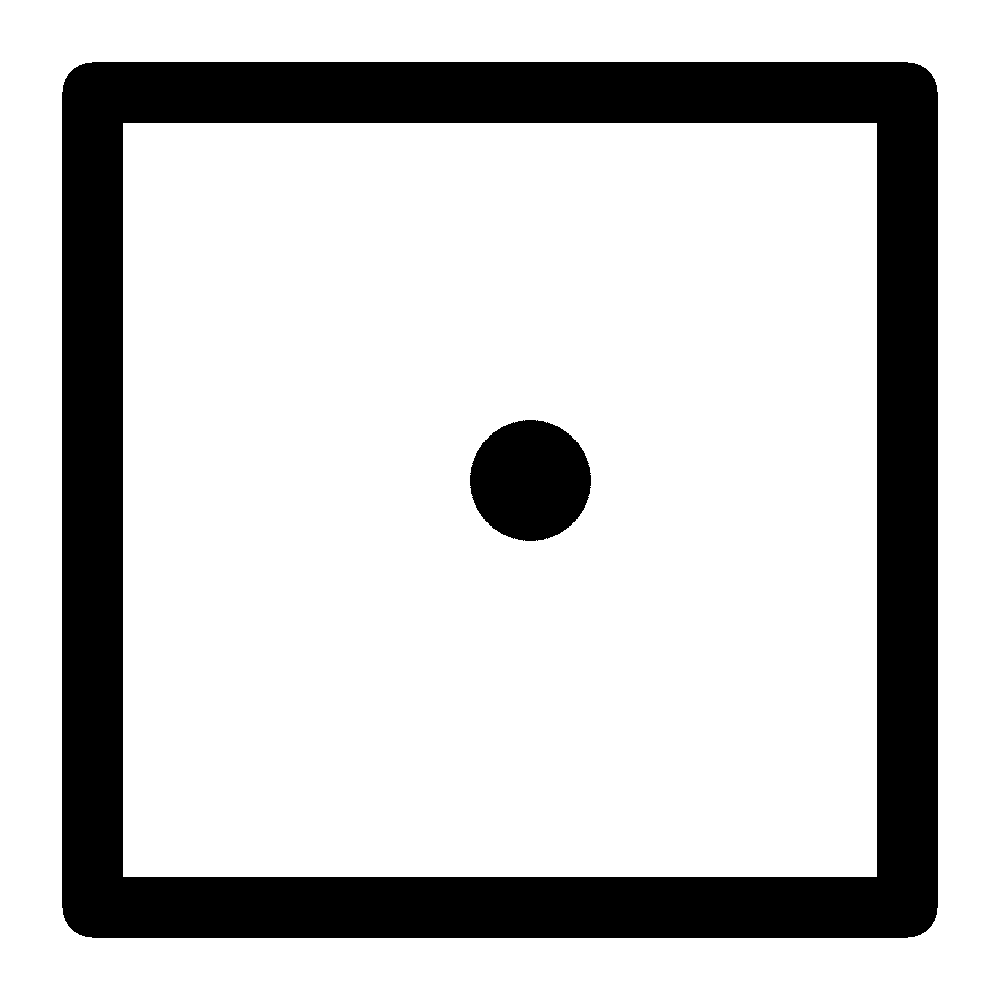
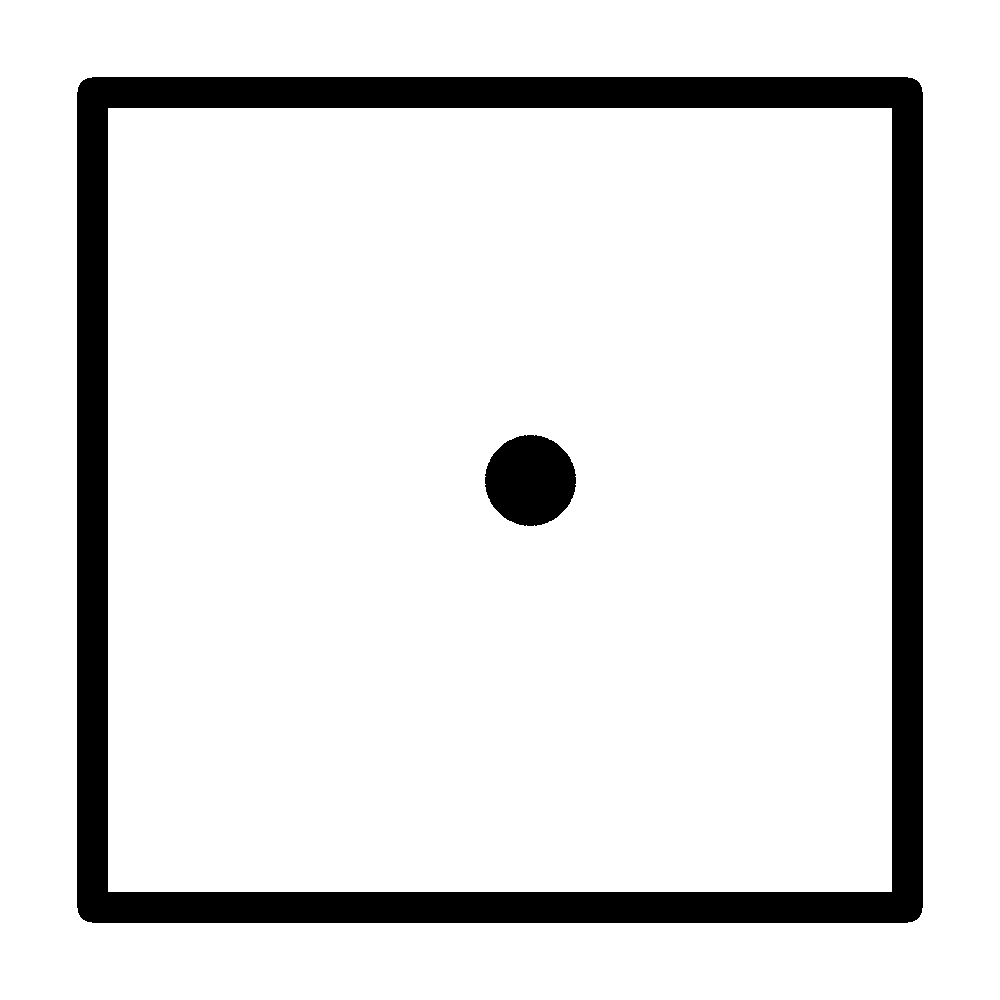
Added generate random pose function

Changed region(s): [[0.062, 0.062, 0.961, 0.961], [0.465, 0.403, 0.589, 0.558]]

diff --git a/exercises/robot-chase/worlds/CreateBinaryOccupancy.py b/exercises/robot-chase/worlds/CreateBinaryOccupancy.py
@@ -17,14 +17,14 @@ draw_thickness = int(2 * inflation_m / resolution_m)
 
 
 # Define rectangles here
-# horizontal, vertical, centre x, centre y, angle (degrees)
-rect1 = [8.15, 8.15, 0, 0, 0]
+# horizontal, vertical, centre x, centre y, angle (degrees), fill
+rect1 = [8.15, 8.15, 0, 0, 0, 0]
 
 rect = [rect1]
 
 # Define circles here
-# radius, centre x, centre y
-circle1 = [0.3, 0.3, 0.2]
+# radius, centre x, centre y, fill
+circle1 = [0.3, 0.3, 0.2, 1]
 #circle2 = [0.01, 0, 0]
 
 circle = [circle1]#, circle2]
@@ -40,6 +40,7 @@ for r in rect:
     rx = r[2]
     ry = r[3]
     theta = r[4] * np.pi / 180
+    fill = r[5]
 
     rot = np.array(((np.cos(theta), -np.sin(theta)),
                     (np.sin(theta), np.cos(theta))))
@@ -53,6 +54,9 @@ for r in rect:
     corners = corners.astype(np.int32)
 
     corners = corners.reshape((-1,1,2))
+
+    if fill == 1:
+        cv2.fillPoly(img, [corners], 0)
     cv2.polylines(img, [corners], True, (0, 0, 0), draw_thickness)
 
 # plot circles
@@ -60,9 +64,13 @@ for c in circle:
     cr = c[0]
     ch = c[1]
     cv = c[2]
+    fill = c[3]
 
     centre = np.array([ch/resolution_m + size_px/2,-cv/resolution_m + size_px/2]).astype(np.int32)
     radius = int(cr/resolution_m)
+
+    if fill == 1:
+        cv2.circle(img, tuple(centre), radius, (0, 0, 0), -1)
     cv2.circle(img, tuple(centre), radius, (0, 0, 0), draw_thickness)
     print(centre, radius)
 

diff --git a/exercises/robot-chase/generate_random_pose.py b/exercises/robot-chase/generate_random_pose.py
@@ -1,0 +1,38 @@
+import random
+import numpy as np
+import os
+import cv2
+
+# Map occupancy information
+size_m = 10         # 10m x 10m size
+resolution_m = 0.01 # 1cm resolution
+size_px = int(size_m/resolution_m) # image is of size: size_px x size_px
+
+
+path = os.path.join(os.path.dirname(os.path.abspath(__file__)), "map.png")
+map = cv2.imread(path, 0)
+
+def generate_random_pose(img, xlim, ylim):
+  xrng = abs(xlim[1] - xlim[0])
+  xmid = (xlim[1] + xlim[0])/2
+
+  yrng = abs(ylim[1] - ylim[0])
+  ymid = (ylim[1] + ylim[0]) / 2
+
+  while 1:
+    x = xrng * random.random() + xmid
+    y = yrng * random.random() + ymid
+
+    pose = np.array([(x/resolution_m) + size_px/2, (-y/resolution_m) + size_px/2])
+    pose = pose.astype(np.int32)
+
+    if not np.any((pose < 0) | (pose > size_px)) and img[pose[1]][pose[0]] == 255:
+      break
+
+  return "-x " + str(round(x,2)) + " -y " + str(round(y,2)) + " -z 0"
+
+if __name__ == "__main__":
+    xlim = [-4,4]
+    ylim = [-4,4]
+    pose = generate_random_pose(map, xlim, ylim)
+    print(pose)

diff --git a/exercises/robot-chase/utils.py b/exercises/robot-chase/utils.py
@@ -5,6 +5,7 @@ from __future__ import print_function
 import numpy as np
 
 
+
 # Laser scan message:
 # http://docs.ros.org/api/sensor_msgs/html/msg/LaserScan.html
 from sensor_msgs.msg import LaserScan
